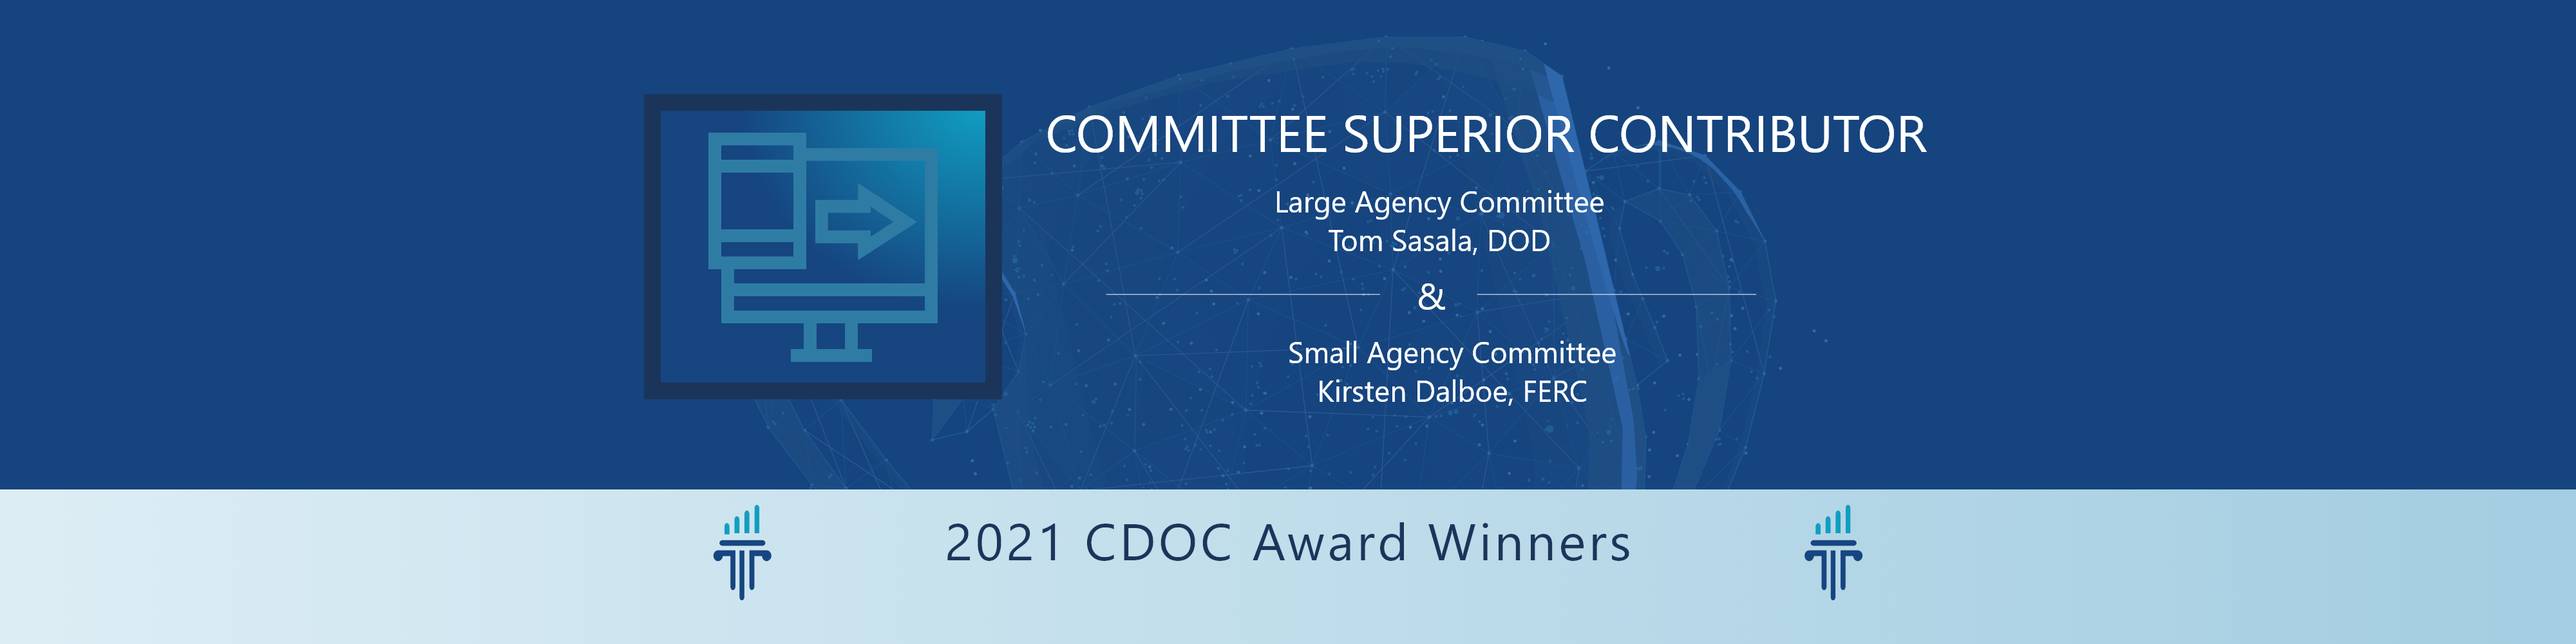
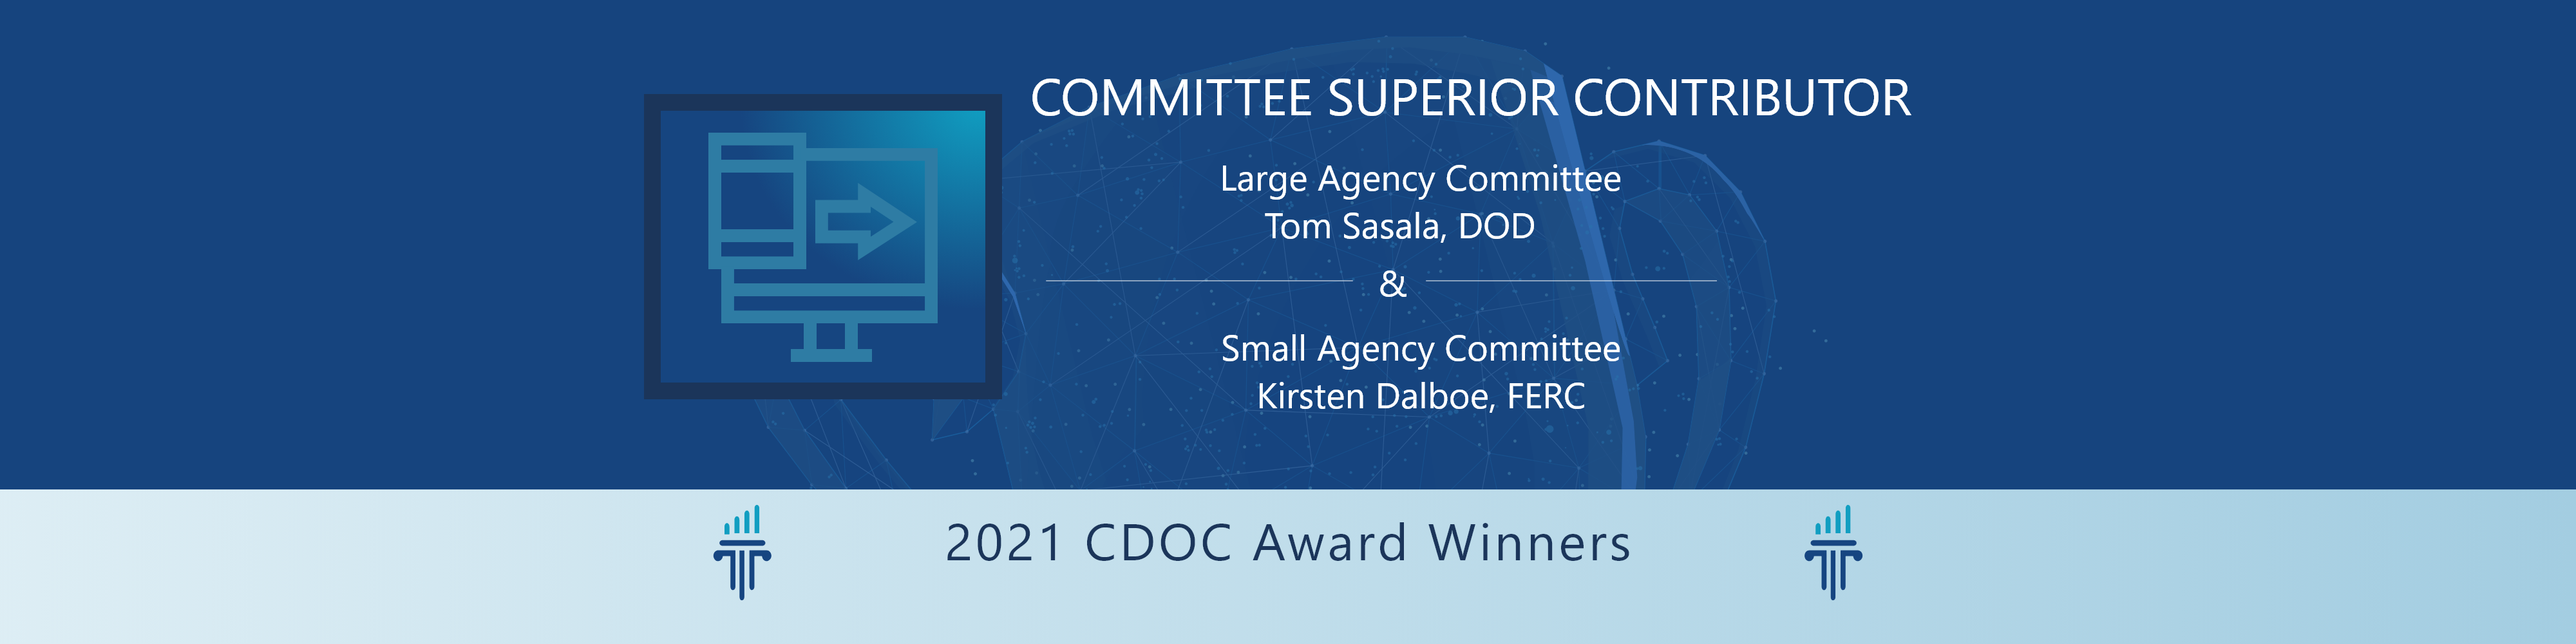
added latest images

Changed region(s): [[0.4062, 0.124, 0.75, 0.403], [0.4688, 0.527, 0.625, 0.651], [0.4375, 0.434, 0.6562, 0.465]]

diff --git a/_pages/awards-program.md b/_pages/awards-program.md
@@ -14,22 +14,46 @@ permalink: /awards-program/
             </div>
             </section>
 
-            <section class="carousel-screen usa-graphic-list padding-y-4 awards-abstract-background2">
+            <section class="carousel-screen usa-graphic-list padding-y-4">
+             <div class="top">
+             <img src="../assets/images/background/excellence-data.png" alt="Excellence-Data" class="img" aria-label="Excellence in data Governance Chris Haffer, Mark Leach, Ada Harris, Kevin Malloy, EEOC (Non-CFO) & Stephen Lewis, DOT (CFO)">
+            </div>
             </section>
 
-            <section class="carousel-screen usa-graphic-list padding-y-4 awards-abstract-background3">
+            <section class="carousel-screen usa-graphic-list padding-y-4">
+             <div class="top">
+            <img src="../assets/images/background/team-year.png" alt="Team-Year" class="img" aria-label="Team of the year Data Governance Division Data Management Branch, FERC (Non-CFO) & AF Chief Data and Artificial Intelligence Office, DOD (CFO)">
+             </div>
             </section>
             
-            <section class="carousel-screen usa-graphic-list padding-y-4 awards-abstract-background4">
+            <section class="carousel-screen usa-graphic-list padding-y-4">
+            <div class="top">
+            <img src="../assets/images/background/data-champion.png" alt="Data-Champion" class="img" aria-label="Data Champion of the year Kimberly Lewis and Yolanda Cooper, FERC (Non-CFO) & Brian McKeon,DOS(CFO)">
+             </div>
             </section>
 
-            <section class="carousel-screen usa-graphic-list padding-y-4 awards-abstract-background5">
+            <section class="carousel-screen usa-graphic-list padding-y-4">
+             <div class="top">
+            <img src="../assets/images/background/distinguished-achievement.png" alt="Distinguished-Achievement" class="img" aria-label="Distinguished Achievement Chris Haffer, EEOC (Non-CFO) & Wildland Fire Fuels, DOI (CFO)">
+             </div>
             </section>
 
-            <section class="carousel-screen usa-graphic-list padding-y-4 awards-abstract-background6">
+            <section class="carousel-screen usa-graphic-list padding-y-4">
+             <div class="top">
+            <img src="../assets/images/background/working-group-1.png" alt="Working-Group" class="img"  aria-label="Working group contributor Data Working Group Arun Acharya, CPSC Data Skills Working Group Erik Price, ODNI Layne Morrison, DOE Robin Wagner, NIH">
+             </div>
             </section>
 
-             <section class="carousel-screen usa-graphic-list padding-y-4 awards-abstract-background7">
+            <section class="carousel-screen usa-graphic-list padding-y-4">
+             <div class="top">
+            <img src="../assets/images/background/working-grouo-2.png" alt="Working-Group" class="img"  aria-label="Working group contributor Data Working Group Arun Acharya, CPSC Data Working Group Arun Acharya, CPSC Data Inventory Working Group Robbin Rappaport, IRS">
+             </div>
+            </section>
+
+             <section class="carousel-screen usa-graphic-list padding-y-4">
+              <div class="top">
+            <img src="../assets/images/background/committee-superior.png" alt="Committee-Superior" class="img"  aria-label="Committee superior contributor Large Agency Committee Tom Sasala, DOD Small Agency Committee Kristen Dalboe, FERC">
+             </div>
             </section>
 
             <section class="circle-container">
@@ -38,8 +62,9 @@ permalink: /awards-program/
                 <div class="circle" aria-label="slide 3 Team of the year Data Governance Division Data Management Branch, FERC (Non-CFO) & AF Chief Data and Artificial Intelligence Office, DOD (CFO)" tabindex=0></div>
                 <div class="circle" aria-label="slide 4 Data Champion of the year Kimberly Lewis and Yolanda Cooper, FERC (Non-CFO) & Brian McKeon,DOS(CFO)" tabindex=0></div>
                 <div class="circle" aria-label="slide 5 Distinguished Achievement Chris Haffer, EEOC (Non-CFO) & Wildland Fire Fuels, DOI (CFO)" tabindex=0></div>
-                <div class="circle" aria-label="slide 6 Working group contributor Data Working Group Arun Acharya, CPSC Data Skills Working Group Erik Price, ODNI Layne Morrison, DOE Robin Wagner, NIH Data Inventory Working Group" tabindex=0></div>
-                <div class="circle" aria-label="slide 7 Committee superior contributor Large Agency Committee Tom Sasala, DOD Small Agency Committee Kristen Dalboe, FERC" tabindex=0></div>
+                <div class="circle" aria-label="slide 6 Working group contributor Data Working Group Arun Acharya, CPSC Data Skills Working Group Erik Price, ODNI Layne Morrison, DOE Robin Wagner, NIH" tabindex=0></div>
+                <div class="circle" aria-label="slide 7 Working group contributor Data Working Group Arun Acharya, CPSC Data Working Group Arun Acharya, CPSC Data Inventory Working Group Robbin Rappaport, IRS" tabindex=0></div>
+                <div class="circle" aria-label="slide 8 Committee superior contributor Large Agency Committee Tom Sasala, DOD Small Agency Committee Kristen Dalboe, FERC" tabindex=0></div>
             </section>
             <div class="left-arrow">
                 <span class="chevron left" aria-label="Previous slide" tabindex=0></span>
